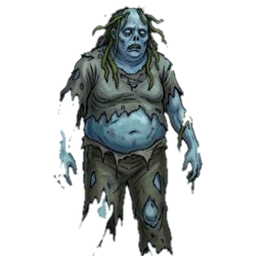
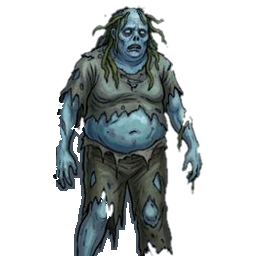
Restore the knight's tridents and the zombie's arm, and stop guessing from one picture
Reported: the zombie and the dead knight still have issues. They did. The Deep
Warden holds two tridents and the shipped plate had both heads cut off and the
shafts broken; the Drowned Thrall's left arm was severed at the shoulder. Both
are complete in the paint underneath, so both were a restore away — six bites on
the warden, one on the thrall.

I had looked at these two twice and cleared them in writing as "painted drips".
Both times I judged from the magenta panel alone, and on magenta a missing
trident head looks like a trident drawn short: the sprite is plausible without
the part, which is the case a single picture cannot settle. Both plates were on
two shortlists at the time and I read the lists as noise because I had already
decided from the picture.

The test that settles it is the one D218 used and I did not repeat — force the
alpha opaque and look, since the pipeline only ever wrote alpha. It is now a
flag: plate_check --paired draws every plate twice, shipped and alpha-ignored.
Run over all 35 it confirms the rest of the set is whole, and it immediately
turned up two more I had also dismissed: brute and warden, each carrying a
sparkle straddling the gap between a thigh and a hand, cut down the middle so
half is welded to each side.

drop_strays --erase <id> x,y,w,h clears those inside one box by the stamp's own
signature. Thresholds measured, not picked: the stamps run 0.30-0.55 luminance
[…]

Changed region(s): [[0.1875, 0.3438, 0.5625, 1.0]]

diff --git a/DESIGN.md b/DESIGN.md
@@ -210,6 +210,7 @@ Entries are not in numeric order in the file below; this is the way in.
 | **D219** | [Six plates the restore could not save, and the generator that had been leaving scars](#d219--six-plates-the-restore-could-not-save-and-the-generator-that-had-been-leaving-scars) |
 | **D220** | [The mark on the Marrow-Priest was never a hole, and the tool that says so](#d220--the-mark-on-the-marrow-priest-was-never-a-hole-and-the-tool-that-says-so) |
 | **D220b** | [Every way into a card was a gesture a finger cannot make](#d220b--every-way-into-a-card-was-a-gesture-a-finger-cannot-make) |
+| **D221** | [Twice I called a severed limb a painted drip, and the test that settles it existed](#d221--twice-i-called-a-severed-limb-a-painted-drip-and-the-test-that-settles-it-existed) |
 
 **D1–D34 are not in that table.** They were settled before the log grew
 sections and live as bullets under [§4 Design decisions](#4-design-decisions).
@@ -14487,3 +14488,48 @@ itself — and the argument that this fixes Android is that the row needs no ges
 on a button. The `card_button` touch guard is reasoned, not measured; its desktop half is
 unchanged and asserted by everything that already presses a card. The README already warns that
 Android has never been tested on real hardware, and this does not change that.
+
+### D221 — Twice I called a severed limb a painted drip, and the test that settles it existed
+
+The player, on the plates fixed in D219 and D220: *the zombie and the dead knight still have
+issues, third row from the top, two left ones.* `deep_warden` and `drowned_thrall` — the two
+I had looked at TWICE and cleared, in writing, as "painted drips" and "the shortlist doing
+its job".
+
+**What was actually wrong.** The Deep Warden holds two tridents; the shipped plate had both
+heads cut off and the shafts broken. The Drowned Thrall's left arm was severed at the
+shoulder, hand floating. Both are **complete in the paint underneath** — a `refill_pockets`
+restore away, which is what they got: six bites on the warden, one on the thrall.
+
+**Why I got it wrong twice, which is the part worth keeping.** Both times I judged from the
+magenta panel alone. On magenta a missing trident head looks like a trident that was drawn
+short, and a severed arm looks like the sleeve ending in rags — the sprite is *plausible*
+without the missing part, which is exactly the case a single picture cannot decide. Worse,
+both plates were on `drop_strays`' shortlist and on `refill_pockets`', and I read the
+shortlists as noise because I had already decided from the picture.
+
+**The test that settles it is the one D218 already used and I did not repeat.** Force the
+alpha opaque and look: the pipeline only ever wrote the alpha channel, so that panel is the
+painting the generator delivered. Side by side, "missing" and "never drawn" are not a
+judgement call, they are two different pictures.
+
+So it is now one flag: `tools/plate_check.gd --paired` draws every plate twice, shipped over
+magenta and again with its alpha ignored. Run over all 35 it takes one look to confirm the
+rest of the set is whole — and it immediately turned up two more, `brute` and `warden`,
+carrying a stamp I had also already dismissed.
+
+**And the erase, for the stamp that touches the subject.** D220 recorded that a stamp bridged
+to the art cannot be reached by connectivity and called that the limit. Two more plates have
+it: the four-point sparkle straddling the gap between a thigh and a hand, cut down the middle
+by the matte so half is welded to each side. `drop_strays --erase <id> x,y,w,h` clears, inside
+one box, only pixels carrying the stamp's own signature. The thresholds are measured, not
+picked: the stamps run **0.30-0.55 luminance at 0.01-0.16 saturation** while the brown thigh
+and orange pauldron they sit against are 0.4+ saturated, so the SATURATION gate is what
+protects the art and luminance only has to clear the rim. At 0.38 the bright core went and the
+rim stayed as a visible ghost; 0.30 takes both. The box lives in the command and never in the
+code — a coordinate compiled into a tool is a number nobody can check later.
+
+**The rule this leaves.** A shortlist you have already decided against reads as noise.
+When an instrument disagrees with your eye, the instrument has seen something your eye has
+not, and the cheap move is not to argue with it — it is to take the ONE picture that can
+tell the two readings apart.

diff --git a/AGENTS.md b/AGENTS.md
@@ -854,6 +854,19 @@ These are failure modes that have actually bitten this project. Treat each as a 
   direction: **judge at the size the defect is visible, which is not always the size the
   thing is drawn.**
 
+  **The one picture that decides it is the PAIR (D221).** On magenta a missing trident head
+  looks like a trident drawn short and a severed arm looks like a sleeve ending in rags — the
+  sprite is *plausible* without the part, which is the case a single picture cannot settle. So
+  `tools/plate_check.gd --paired` draws each plate twice, shipped and with its alpha ignored;
+  since the pipeline only ever wrote alpha, the second panel is the painting that was
+  delivered, and "missing" versus "never drawn" stops being a judgement call. Two plates were
+  cleared by eye TWICE from the magenta panel alone and were wrong both times.
+
+  **A shortlist you have already decided against reads as noise.** Both of those plates were
+  on `drop_strays`' list and `refill_pockets`' list while being called fine. When an
+  instrument disagrees with your eye, it has seen something your eye has not; the cheap move
+  is not to argue with it but to take the one picture that separates the readings.
+
   **And not every mark on a sprite is a hole (D220b).** The one on the Marrow-Priest was the
   generator's watermark left OPAQUE in the field beside his arm — no detector that looks for
   missing alpha can see it, and at 1:1 over a dark corridor it reads as a smudge on the
